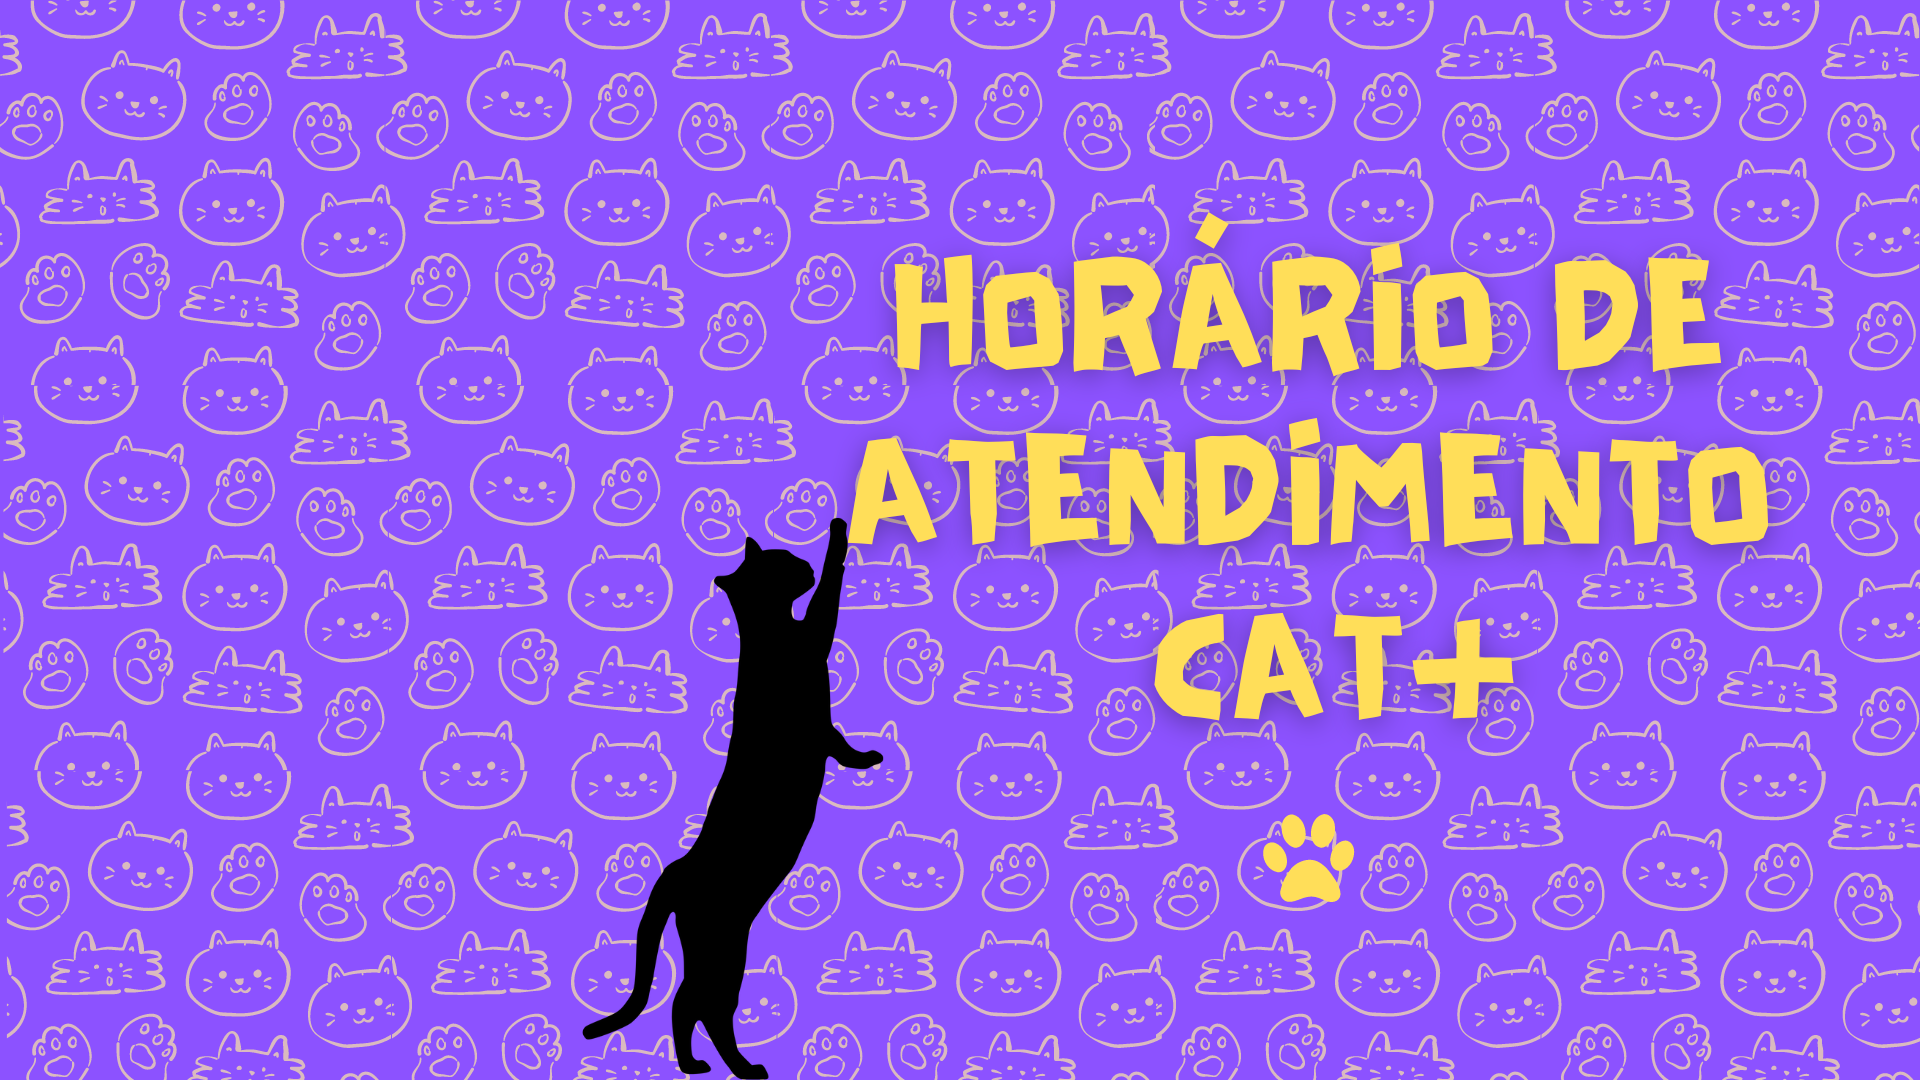
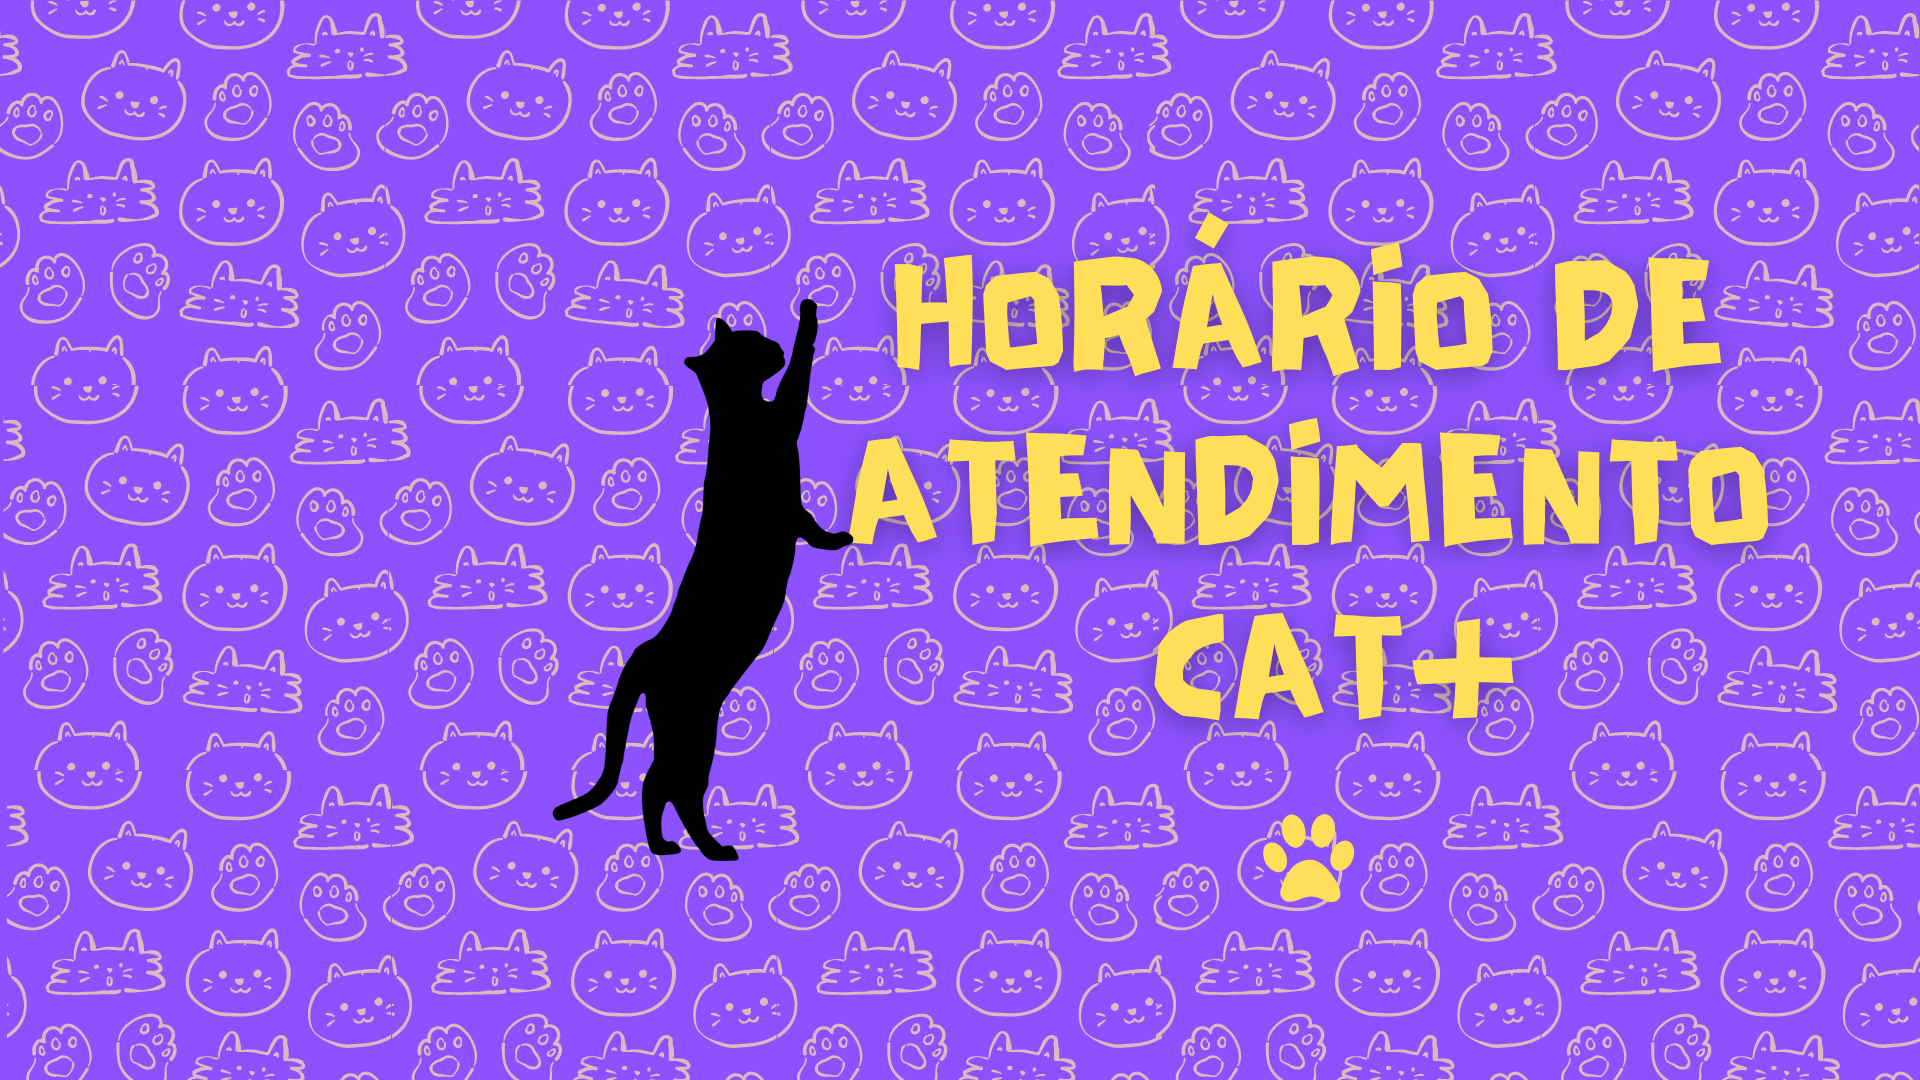
Projeto final
Adicionadas novas versões das imagens do site e novas páginas.

Changed region(s): [[0.2812, 0.275, 0.4688, 1.0]]

diff --git a/horario de atendimento.html b/horario de atendimento.html
@@ -1,0 +1,120 @@
+<!DOCTYPE html>
+<html lang="en">
+<head>
+    <meta charset="UTF-8">
+    <meta http-equiv="X-UA-Compatible" content="IE=edge">
+    <meta name="viewport" content="width=device-width, initial-scale=1.0">
+    <title>Clínica Veterinária Cat+</title>
+    <link rel="stylesheet" href="base.css">
+    <style>
+        table thead th{
+            background-color: rgb(141, 73, 141);
+            color: #FFD700;
+            padding: 0.1%;
+            width: 250px;
+        }
+        table {
+            -webkit-box-shadow: 0px 0px 34px -10px rgba(141,73,141,1);
+            -moz-box-shadow: 0px 0px 34px -10px rgba(141,73,141,1);
+            box-shadow: 0px 0px 34px -10px rgba(141,73,141,1);
+            margin: center;
+        }
+        table tbody :nth-child(even) td{
+            border: #FFFFFF;   
+        }
+    </style>
+</head>
+<body>
+    <div class="wrapper">
+        <div class="menu">
+            <!-- Aqui vai o seu menu -->
+            <h1>Menu</h1>
+            <ul>
+                <li><a href="inicio.html">Início</a></li>
+                <li><a href="sobre.html">Sobre</a></li>
+                <li><a href="horario de atendimento.html">Horário</a></li>
+                <li><a href="contato.html">Contato</a></li>
+            </ul>
+        </div>
+
+        <div class="main" id="sobre">
+            <div class="header">
+                <!-- Aqui vai o seu header -->
+                <img src="banner-horario.png" alt="banner indicando que a página informa o horário de atendimento" width="1000" >
+            </div>
+    
+            <div class="content">
+                <!-- Aqui vai o seu conteúdo -->
+                <h1 id="horario">Horário de Atendimento</h1>
+                <p>Confira nossos preços e horários de atendimento:</p>
+                <table align="center" cellspacing="7" cellspadding="30">
+                    <thead>
+                        <tr>
+                            <th>Serviço</th>
+                            <th>Dias de atendimento</th>
+                            <th>Horários</th>
+                            <th>Valor</th>
+                        </tr>
+                     </thead>
+                     <tbody align="center">
+                        <tr>
+                            <td>Consulta geral felina</td>
+                            <td>segunda à sábado</td>
+                            <td>07:00h às 18:00h</td>
+                            <td>R$ 80,00</td>
+                        </tr>
+                        <tr>
+                            <td>Consulta dermatologista</td>
+                            <td>quarta à sábado</td>
+                            <td>07:00h às 16:00h</td>
+                            <td>R$ 250,00</td>
+                        </tr>
+                        <tr>
+                            <td>Consulta endocrinologista</td>
+                            <td>quarta à sábado</td>
+                            <td>10:00h às 18:00h</td>
+                            <td>R$ 250,00</td>
+                        </tr>
+                        <tr>
+                            <td>Consulta nefrologista</td>
+                            <td>segundas e quartas</td>
+                            <td>07:00h às 18:00h</td>
+                            <td>R$ 280,00</td>
+                        </tr>
+                        <tr>
+                            <td>Consulta neurologista</td>
+                            <td>segunda à sexta</td>
+                            <td>07:00h às 16:00h</td>
+                            <td>R$ 230,00</td>
+                        </tr>
+                        <tr>
+                            <td>Consulta odontologista</td>
+                            <td>terça à sábado</td>
+                            <td>08:00h às 15:00h</td>
+                            <td>R$ 230,00</td>
+                        </tr>
+                        <tr>
+                            <td>Consulta ortopedista</td>
+                            <td>segunda à domingo</td>
+                            <td>08:00h às 18:00h</td>
+                            <td>R$ 250,00</td>
+                        </tr>
+                        <tr>
+                            <td>Consulta de urgência/emergência</td>
+                            <td>segunda à domingo</td>
+                            <td>18:01h às 06:59h</td>
+                            <td>R$ 180,00</td>
+                        </tr>
+                    </tbody>
+                  </table> 
+                <p>Para consulta de valores e marcação de exames, entre em <a href="#contato">contato</a> conosco.</p>
+            </div>
+    
+            <div class="footer">
+                <!-- Aqui vai o seu rodapé -->
+                <img src="banner-rodape.png" alt="rodapé" width="1000">
+            </div>
+        </div>
+    </div>
+</body>
+</html>

diff --git a/contato.html b/contato.html
@@ -1,0 +1,57 @@
+<!DOCTYPE html>
+<html lang="en">
+<head>
+    <meta charset="UTF-8">
+    <meta http-equiv="X-UA-Compatible" content="IE=edge">
+    <meta name="viewport" content="width=device-width, initial-scale=1.0">
+    <title>Clínica Veterinária Cat+</title>
+    <link rel="stylesheet" href="base.css">
+</head>
+<body>
+    <div class="wrapper">
+        <div class="menu">
+            <!-- Aqui vai o seu menu -->
+            <h1>Menu</h1>
+            <ul>
+                <li><a href="inicio.html">Início</a></li>
+                <li><a href="sobre.html">Sobre</a></li>
+                <li><a href="horario de atendimento.html">Horário</a></li>
+                <li><a href="contato.html">Contato</a></li>
+            </ul>
+        </div>
+
+        <div class="main">
+            <div class="header">
+                <!-- Aqui vai o seu header -->
+                <img src="banner-contato.png" alt="banner indicando informações de contato" width="1000" >
+            </div>
+    
+            <div class="content">
+                <!-- Aqui vai o seu conteúdo -->
+                <h1 id="contato">Contato</h1>
+                <iframe src="https://www.google.com/maps/embed?pb=!1m18!1m12!1m3!1d914.7487899762649!2d-46.181618650946405!3d-23.49668382828218!2m3!1f0!2f0!3f0!3m2!1i1024!2i768!4f13.1!3m3!1m2!1s0x94cdd78fa1d99535%3A0x46c043ac84e62b6a!2sCentro%20Comercial%20Rodeio%20-%20Beco%20-%20Jardim%20Marica%2C%20Mogi%20das%20Cruzes%20-%20SP!5e0!3m2!1spt-BR!2sbr!4v1712149890821!5m2!1spt-BR!2sbr" width="950" height="600" style="border:0;" allowfullscreen="" loading="lazy" referrerpolicy="no-referrer-when-downgrade"></iframe>
+                <p>Endereço: Av. Ezelino da Cunha Glória, 430, Jardim Maricá - Mogi das Cruzes, SP</p>
+                <p>Você pode entrar em contato conosco via:</p>
+                <p>Telefone: (11) 40044004</p>
+                <p>Whatsapp: (11) 998765432</p>
+                <p>Se preferir, preencha o formulário abaixo e entraremos em contato com você:</p>
+                <form name="signup" autocomplete="OFF" method="GET">
+                    Nome: <input type="text" name="name" /><br>
+                    E-mail: <input type="email" name="e-mail"/><br>
+                    Assunto: <input type="text" name="assunto"/> <br>
+                     <label for="mensagem">Mensagem:</label>
+                        <textarea id="mensagem" name="mensagem" rows="5" cols="30">
+                        </textarea> 
+                    <button type="submit">Enviar</button>
+                    <button type="reset">Limpar</button>
+                </form>
+            </div>
+    
+            <div class="footer">
+                <!-- Aqui vai o seu rodapé -->
+                <img src="banner-rodape.png" alt="rodapé" width="1000">
+            </div>
+        </div>
+    </div>
+</body>
+</html>

diff --git a/sobre.html b/sobre.html
@@ -1,0 +1,67 @@
+<!DOCTYPE html>
+<html lang="en">
+<head>
+    <meta charset="UTF-8">
+    <meta http-equiv="X-UA-Compatible" content="IE=edge">
+    <meta name="viewport" content="width=device-width, initial-scale=1.0">
+    <title>Clínica Veterinária Cat+</title>
+    <link rel="stylesheet" href="base.css">
+</head>
+<body>
+    <div class="wrapper">
+        <div class="menu">
+            <!-- Aqui vai o seu menu -->
+            <h1>Menu</h1>
+            <ul>
+                <li><a href="inicio.html">Início</a></li>
+                <li><a href="sobre.html">Sobre</a></li>
+                <li><a href="horario de atendimento.html">Horário</a></li>
+                <li><a href="contato.html">Contato</a></li>
+            </ul>
+        </div>
+
+        <div class="main">
+            <div class="header">
+                <!-- Aqui vai o seu header -->
+                <img src="banner-sobre.png" alt="banner inicial" width="1000" >
+            </div>
+    
+            <div class="content">
+                <!-- Aqui vai o seu conteúdo -->
+                <h1 id="sobre">Sobre a Cat+</h1>
+                <p>Sabemos como gatos são exigentes e, desde 2024, a <b>Clínica Veterinária Cat+</b> oferece serviços pensando em todos os cuidados que seu gato merece.</p>
+                <p>Buscamos sempre tratá-los como os reis que são para que eles se sintam o mais confortável possível.</p>
+                <p>Todos os nossos funcionários são apaixonados por gatos e carregam com eles aquela vontade de fazer um carinho até ouvir um ronronado.</p>
+                <p>Temos especialistas em:</p>
+                <ul>
+                    <li>dermatologia;</li>
+                    <li>endocrinologia;</li>
+                    <li>fisioterapia;</li>
+                    <li>nefrologia;</li>
+                    <li>neurologia;</li>
+                    <li>odontologia;</li>
+                    <li>ortopedia;</li>
+                    <li>além de especialista comportamental.</li>
+                </ul>
+                <p>Realizamos exames de:</p>
+                <ul>
+                    <li>análises clínicas;</li>
+                    <li>biópsias;</li>
+                    <li>ecocardiograma;</li>
+                    <li>eletrocardiograma;</li>
+                    <li>endoscopia;</li>
+                    <li>rinoscopia;</li>
+                    <li>ultrassom;</li>
+                    <li>raio x.</li>
+                </ul>
+                <p>Entre em contato para mais informações.</p>
+            </div>
+    
+            <div class="footer">
+                <!-- Aqui vai o seu rodapé -->
+                <img src="banner-rodape.png" alt="rodapé" width="1000">
+            </div>
+        </div>
+    </div>
+</body>
+</html>

diff --git a/inicio.html b/inicio.html
@@ -1,0 +1,52 @@
+<!DOCTYPE html>
+<html lang="en">
+<head>
+    <meta charset="UTF-8">
+    <meta http-equiv="X-UA-Compatible" content="IE=edge">
+    <meta name="viewport" content="width=device-width, initial-scale=1.0">
+    <title>Clínica Veterinária Cat+</title>
+    <link rel="stylesheet" href="base.css">
+</head>
+<body>
+    <div class="wrapper">
+        <div class="menu">
+            <!-- Aqui vai o seu menu -->
+            <h1>Menu</h1>
+            <ul>
+                <li><a href="inicio.html">Início</a></li>
+                <li><a href="sobre.html">Sobre</a></li>
+                <li><a href="horario de atendimento.html">Horário</a></li>
+                <li><a href="contato.html">Contato</a></li>
+            </ul>
+        </div>
+
+        <div class="main">
+            <div class="header">
+                <!-- Aqui vai o seu header -->
+                <img src="banner-inicial.png" alt="banner inicial" width="1000" >
+            </div>
+    
+            <div class="content">
+                <!-- Aqui vai o seu conteúdo -->
+                <h1 id="inicio">Clínica Veterinária Cat+</h1>
+                <p>Tudo que seu gato precisa em um só lugar!</p>
+                <p>Somos a <b>primeira</b> clínica especializada em gatos em <u><b>Mogi das Cruzes</b></u>.</p>
+                <p>Oferecemos:</p>
+                <ul>
+                    <li>consultas em diversas especialidades;</li>
+                    <li>exames;</li>
+                    <li>cirurgias;</li>
+                    <li>internação;</li>
+                    <li>urgência e emergência 24h.</li>
+                </ul>
+                <p>Em todos os nossos serviços nos empenhamos para manter o bem-estar do seu felino.</p>
+            </div>
+    
+            <div class="footer">
+                <!-- Aqui vai o seu rodapé -->
+                <img src="banner-rodape.png" alt="rodapé" width="1000">
+            </div>
+        </div>
+    </div>
+</body>
+</html>

diff --git a/base.css b/base.css
@@ -5,6 +5,7 @@ body {
     background-color: #f1f1f1;
     display: flex;
     justify-content: center;
+    font-family:'Gill Sans', 'Gill Sans MT', Calibri, 'Trebuchet MS', sans-serif
 }
 
 .wrapper {
@@ -20,15 +21,16 @@ body {
 }
 .menu {
     width: 15%;
-    background-color: aqua;
+    background-color: #FFD700;
+    color: rgb(141, 73, 141);
     padding: 10px 20px 0px;
 }
 .header {
-    background-color: rgb(5, 108, 108);
+    background-color: rgb(238, 215, 140);
     min-height: 150px;
 }
 .content {
-    background-color: white;
+    background-color: rgb(238, 215, 140);
     min-height: 300px;
     padding: 20px;
 }
